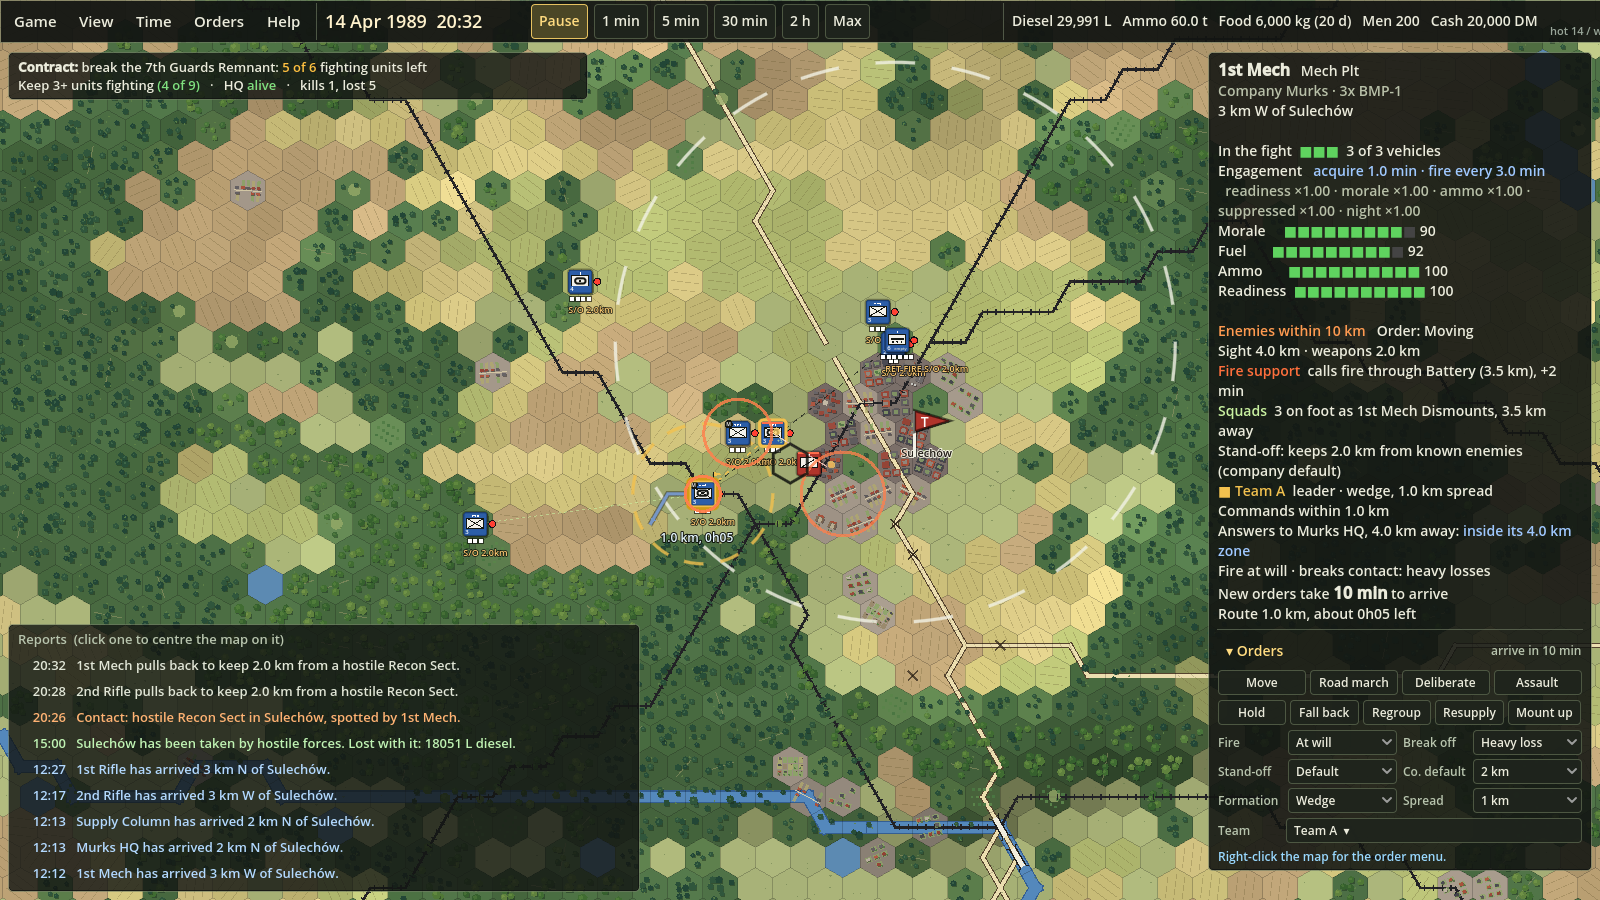
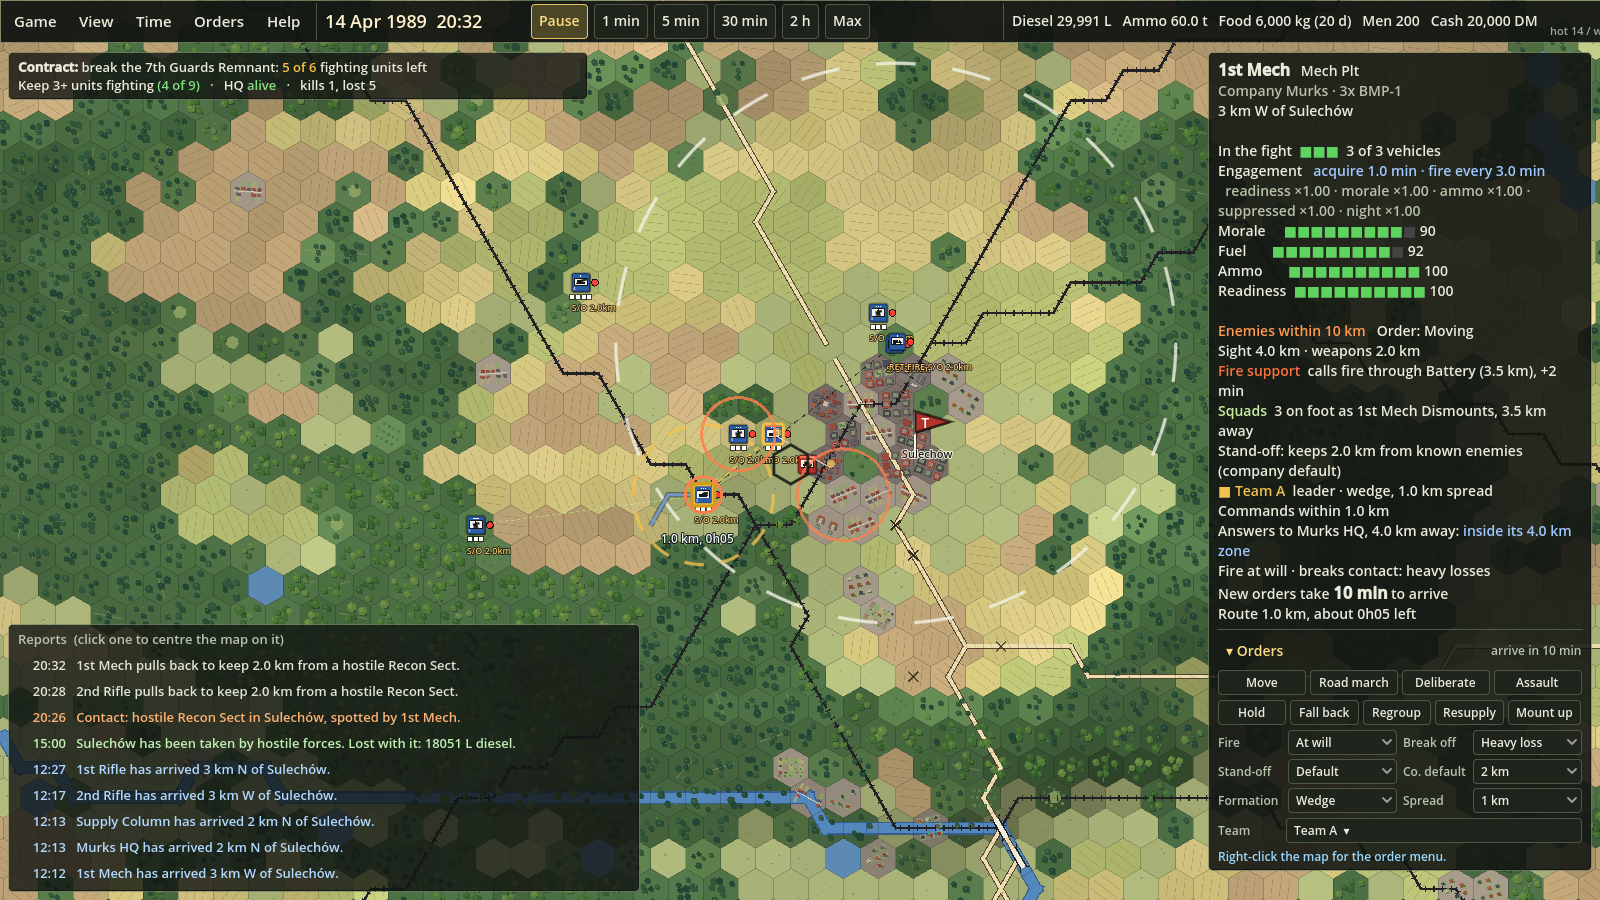
Counters stay inside their hex and show the unit's main vehicle (MRK-24)
Drawing only; no simulation or save-format change.

- Counter size is a fixed share of the hex at every zoom (0.9 x corner
  radius = 52% of the hex width; no upper cap, floor 10 px, which still
  fits the hex down to the 14 px grouping threshold).
- Stacks sharing a hex shrink and fan out so the stack stays in the hex.
- Vehicles on counters (View menu, F7, default on): side-view silhouette
  of the unit's most important vehicle from its equipment (tank, SP gun,
  MRL, IFV, APC tracked/wheeled, towed gun, mortar, scout car, truck,
  field car, rifleman); hostile ones face left; HQ gets an aerial and
  pennant. Off: NATO symbols as before.
- Company counters show the highest-ranking vehicle among their units;
  within a stack the highest-ranking unit lies on top.
- --uitest: 6 new checks (45 pass); autotest outcome unchanged; two new
  screenshots, others refreshed.

Claude-Session: https://claude.ai/code/session_01Ci47WvQG1uPybohYhv3GrZ

diff --git a/README.md b/README.md
@@ -13,7 +13,7 @@ This build proves the risky technical core of the design plan (roadmap phase 1, 
   - **Title screen and pause menu.** The game opens on a title screen with the contract briefing: New campaign, Continue from the quick save, Controls, Map data credits, Quit. Esc in play opens the pause menu, which stops the clock and gives it back at the same speed on Resume: quick save and load, controls, briefing, credits, new game, quit to title or desktop.
 
   Every order and setting goes down the chain of command and arrives after the command delay. Counters show road-march, deliberate, assault and fire tags.
-- **Counters and movement in the Forward Defense style.** Each unit is a square counter in its side's colour (NATO blue, hostile red) with a white NATO symbol box and echelon marks (dots for sections and platoons, a bar for a company or battery). Own counters show how many elements are in the fight bottom-left (white when all are, yellow from half, red below half), one pip under the counter per vehicle, gun or squad (hollow once knocked out), and a short name when zoomed in. They also show an order badge top-left (M move, R road march, D deliberate, A assault, F falling back, G regroup, S rest); a yellow corner flag when morale is shaken (under 45) and white hatching when broken (under 25) or falling back; and a bar along the top while under fire, red when just hit. Orders still on their way show a yellow "+12′" tag. A unit sits in the hex the simulation has it in; when it moves a hex the counter glides there in a quarter second. Counters are about half as wide as their hex (24 to 64 px), so the ground around a unit stays readable; units sharing a hex fan out diagonally inside it, and each can be clicked. Last-seen positions are faded with a dashed outline and "?".
+- **Counters and movement in the Forward Defense style.** Each unit is a square counter in its side's colour (NATO blue, hostile red) with a white NATO symbol box and echelon marks (dots for sections and platoons, a bar for a company or battery). Own counters show how many elements are in the fight bottom-left (white when all are, yellow from half, red below half), one pip under the counter per vehicle, gun or squad (hollow once knocked out), and a short name when zoomed in. They also show an order badge top-left (M move, R road march, D deliberate, A assault, F falling back, G regroup, S rest); a yellow corner flag when morale is shaken (under 45) and white hatching when broken (under 25) or falling back; and a bar along the top while under fire, red when just hit. Orders still on their way show a yellow "+12′" tag. A unit sits in the hex the simulation has it in; when it moves a hex the counter glides there in a quarter second. Counters keep a fixed share of the hex at every zoom (52% of its width), so a counter and its pips always sit inside their own hex and the ground around a unit stays readable; below 14 px per hex company grouping takes over. With **Vehicles on counters** on (View menu, **F7**; the default) the symbol box shows the unit's most important vehicle in side view instead of the NATO symbol: tank, SP gun, rocket launcher, IFV, tracked or wheeled APC, towed gun, mortar, scout car, truck, field car or rifleman, own units facing right and hostile ones left. The vehicle comes from the unit's equipment; where that lists several things the highest in that order wins (an HQ with a UAZ-469 and a radio shows the field car, with an aerial and pennant). A company counter on the theater map shows the highest-ranking vehicle among its units. Units sharing a hex shrink a little, with the most important vehicle on top, and fan out diagonally inside it, and each can be clicked. Last-seen positions are faded with a dashed outline and "?".
 - **Combat effectiveness (binary per element).** Every unit is made of elements: vehicles, guns or squads ("4x T-55A" is 4 tanks, "35 men" is 3 squads; types without a count use 3 tanks or vehicles, 2 recon vehicles, 6 guns (a Warsaw Pact battery), 2 HQ vehicles). Each element is either in the fight or knocked out. Direct fire is resolved per element: every vehicle or squad still in the fight fires its aimed rounds each fire cycle (tanks 2, others 1); each round hits with the range-and-cover hit chance (about 0.32 at 1.5 km in the open, close to the 0.33–0.40 first-round hit chance in US gunnery data), and a hit knocks out one element with a chance set by the shooter's firepower (× anti-armour against armour, × 0.6–1.4, × the calibrated weight `DIRECT_FIRE_WEIGHT`; about 0.66 for a tank gun against a tank). A fire mission is one sheaf: one hit roll whose weight is resolved as whole elements, as before. Strength is 100 × elements ÷ full complement, so the break-contact and victory rules still read it.
 - **Calibrated attrition.** `tests/attrition_test.cpp` stands two platoons up against each other on flat open ground and measures kills per firing element-minute. Tank against tank at 1.5 km it now gives 0.11 (recalibrated with suppression in, weight 0.073) (the Historical Values target band is 0.09–0.13: Soviet planning norms degraded to real-combat effectiveness); before this change it was 0.005. Other pairings follow from firepower and their unsourced 3-minute cycles.
 - **Engagement time.** Crew condition doesn't change hit chance; it changes how long a unit takes to acquire a new target and to work through each fire cycle. Values follow the Historical Values doc: direct fire acquires in 1 minute (first round in 8–24 s for trained crews) and tanks fire a 1-minute cycle of 2 aimed rounds (other direct-fire types keep 3 minutes until sourced); a fire mission on an unplanned target takes 4 minutes for a battery, 1.25 minutes for a gun platoon of up to 3 guns, and 2 minutes to shift to a target within 1 km of the last one; guns fire 4-minute cycles. Both times are multiplied by readiness (1 + (100 − readiness) ÷ 100), morale (1 + (60 − morale) ÷ 60 below 60), ammo (up to × 2 below a quarter load), suppression (1 + suppression ÷ 50, up to × 3; see Suppression) and night (× 1.2). The morale and ammo factors are still estimates with no measured source. The unit panel shows "acquire 1.3 min · fire every 1.2 min" and each factor. Tanks use 2.5% of their load per round (about 40 rounds).
@@ -61,6 +61,8 @@ The map is baked from real data by `tools/bake_region.py` (see "The real map" be
 
 ![Terrain close in: forest, fields by parcel, a town and a railway](docs/screenshots/29_terrain_close.png)
 
+![Counters inside their hexes, showing each unit's main vehicle](docs/screenshots/31_counters_vehicles.png)
+
 ![Map legend](docs/screenshots/28_map_legend.png)
 
 ![Company at Sulechów](docs/screenshots/01_company_close.png)
@@ -102,6 +104,7 @@ The prebuilt extension is in `game/bin/` (`libmurks.windows.template_debug.x86_6
 | F2 | Map data credits |
 | F4 | Map legend |
 | F6 | Terrain detail (patterns inside hexes when zoomed in) on / off |
+| F7 | Counters show vehicles / NATO symbols |
 | F5 / F9 | Quick save / quick load (one slot, in Godot's user folder) |
 | J / Shift+J | Form a team from the selection / disband the selection's teams |
 | L | Select the team of the selected unit (double-click does the same) |
@@ -231,7 +234,7 @@ Pass these after `--` when launching Godot:
 - `--groups=N`: number of hostile bands (default 24, about 212 units). Use 60 or more as a stress test.
 - `--procedural`: ignore the baked map and generate a fictional one.
 - `--autotest=DIR`: scripted run that saves screenshots and timing to `DIR`, then quits.
-- `--uitest`: scripted check of the menus (title screen, right-click menu, armed orders, Esc and the pause menu, dropdowns, View and Orders menus, the terrain detail layer and the map legend, the holding panel, militia, a supply route and its cancellation): pushes real input events and menu picks, checks what reaches the simulation, prints PASS / FAIL lines and exits non-zero on a failure. Needs a window (on a Linux server: `xvfb-run godot --path game -- --uitest`).
+- `--uitest`: scripted check of the menus (title screen, right-click menu, armed orders, Esc and the pause menu, dropdowns, View and Orders menus, the terrain detail layer and the map legend, counter size and vehicles, the holding panel, militia, a supply route and its cancellation): pushes real input events and menu picks, checks what reaches the simulation, prints PASS / FAIL lines and exits non-zero on a failure. Needs a window (on a Linux server: `xvfb-run godot --path game -- --uitest`).
 
 Headless balance check (no window): `godot --headless --path game --script res://tests/playtest.gd -- 4 active` (or `passive`). It plays the scenario for N days and prints contact time, losses, supplies, the outcome and a save/load replay check.
 
